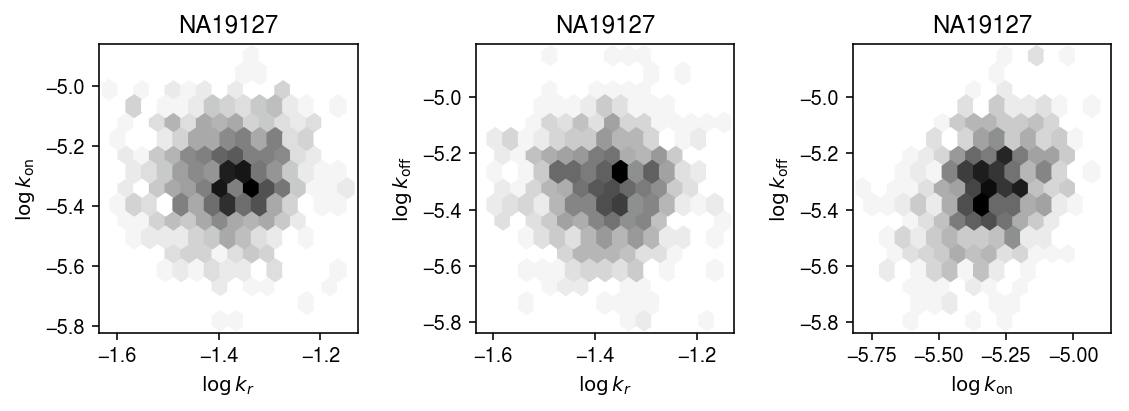
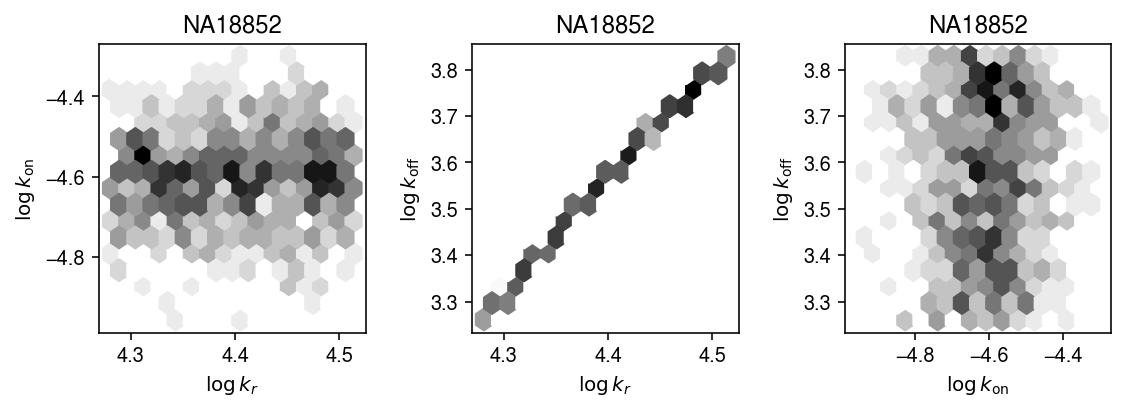
Fit more kinetic models

diff --git a/docs/diff-var.html b/docs/diff-var.html
@@ -1,7 +1,7 @@
 <!DOCTYPE html>
 <html lang="en">
 <head>
-<!-- 2020-02-24 Mon 19:54 -->
+<!-- 2020-02-25 Tue 17:56 -->
 <meta charset="utf-8">
 <meta name="viewport" content="width=device-width, initial-scale=1">
 <title>Differential variance analysis</title>
@@ -339,6 +339,7 @@ expression variance <i>independent</i> of altering mean gene expression.
 <span class="org-keyword">import</span> itertools <span class="org-keyword">as</span> it
 <span class="org-keyword">import</span> numpy <span class="org-keyword">as</span> np
 <span class="org-keyword">import</span> pandas <span class="org-keyword">as</span> pd
+<span class="org-keyword">import</span> pickle
 <span class="org-keyword">import</span> poisbeta
 <span class="org-keyword">import</span> scipy.special <span class="org-keyword">as</span> sp
 <span class="org-keyword">import</span> scipy.stats <span class="org-keyword">as</span> st
@@ -997,6 +998,16 @@ Estimate the posterior distribution of kinetic parameters for each individual.
 </div>
 
 <p>
+Write out the samples.
+</p>
+
+<div class="org-src-container">
+<pre class="src src-ipython"><span class="org-keyword">with</span> <span class="org-builtin">open</span>(<span class="org-string">'/scratch/midway2/aksarkar/ideas/ipsc-gstt1-post.pkl'</span>, <span class="org-string">'wb'</span>) <span class="org-keyword">as</span> f:
+  pickle.dump(k_params, f)
+</pre>
+</div>
+
+<p>
 Plot the 95% credible intervals for each parameter in each individual,
 against genotype.
 </p>
@@ -1040,12 +1051,12 @@ plt.clf()
 <span class="org-variable-name">fig</span>, <span class="org-variable-name">ax</span> = plt.subplots(1, 3)
 fig.set_size_inches(8, 3)
 <span class="org-keyword">for</span> (s, t), a <span class="org-keyword">in</span> <span class="org-builtin">zip</span>(it.combinations(<span class="org-builtin">range</span>(3), 2), ax):
-  <span class="org-variable-name">x</span> = np.array([np.log(k_params[<span class="org-string">'NA19127'</span>][-800:,s]) <span class="org-keyword">for</span> i <span class="org-keyword">in</span> geno.index])
-  <span class="org-variable-name">y</span> = np.array([np.log(k_params[<span class="org-string">'NA19127'</span>][-800:,t]) <span class="org-keyword">for</span> i <span class="org-keyword">in</span> geno.index])
+  <span class="org-variable-name">x</span> = np.array([np.log(k_params[<span class="org-string">'NA18852'</span>][-800:,s]) <span class="org-keyword">for</span> i <span class="org-keyword">in</span> geno.index])
+  <span class="org-variable-name">y</span> = np.array([np.log(k_params[<span class="org-string">'NA18852'</span>][-800:,t]) <span class="org-keyword">for</span> i <span class="org-keyword">in</span> geno.index])
   a.hexbin(x=x, y=y, gridsize=15, cmap=colorcet.cm[<span class="org-string">'gray_r'</span>])
   a.set_xlabel(names[s])
   a.set_ylabel(names[t])
-  a.set_title(<span class="org-string">'NA19127'</span>)
+  a.set_title(<span class="org-string">'NA18852'</span>)
 fig.tight_layout()
 </pre>
 </div>
@@ -1055,13 +1066,109 @@ fig.tight_layout()
 <p><img src="figure/diff-var.org/ipsc-gstt1-joint.png" alt="ipsc-gstt1-joint.png">
 </p>
 </div>
+
+<p>
+Repeat the analysis for the rest of the vQTLs.
+</p>
+
+<div class="org-src-container">
+<pre class="src src-ipython"><span class="org-variable-name">k</span> = <span class="org-string">'ENSG00000113558'</span>
+<span class="org-keyword">with</span> sqlite3.connect(<span class="org-string">'/project2/mstephens/aksarkar/projects/singlecell-qtl/browser/browser.db'</span>) <span class="org-keyword">as</span> conn:
+  <span class="org-variable-name">geno</span> = pd.read_sql(<span class="org-string">'select * from mean_qtl_geno where gene = ?'</span>, con=conn, params=(k,)).set_index(<span class="org-string">'ind'</span>)[<span class="org-string">'value'</span>]
+<span class="org-variable-name">query</span> = x.X.tocsc()[:,<span class="org-builtin">list</span>(x.var.index).index(k)].A.ravel()
+<span class="org-variable-name">k_params</span> = <span class="org-builtin">dict</span>()
+<span class="org-keyword">for</span> i <span class="org-keyword">in</span> geno.index:
+  <span class="org-keyword">print</span>(f<span class="org-string">'Fitting individual {i}'</span>)
+  <span class="org-variable-name">keep</span> = (x.obs[<span class="org-string">'chip_id'</span>] == i).values.ravel()
+  <span class="org-variable-name">xg</span> = query[keep]
+  <span class="org-variable-name">sg</span> = x.obs[<span class="org-string">'mol_hs'</span>].values[keep]
+  <span class="org-variable-name">samples</span>, <span class="org-variable-name">_</span> = poisbeta.fit_poisson_beta_mcmc(xg, n_samples=1000, ar=1, br=xg.<span class="org-builtin">max</span>(), aon=1, bon=100, aoff=1, boff=100)
+  <span class="org-variable-name">k_params</span>[i] = samples
+</pre>
+</div>
+
+<div class="org-src-container">
+<pre class="src src-ipython">plt.clf()
+<span class="org-variable-name">fig</span>, <span class="org-variable-name">ax</span> = plt.subplots(1, 3)
+fig.set_size_inches(8, 3)
+<span class="org-variable-name">n</span> = geno.shape[0]
+<span class="org-keyword">for</span> j, (a, t) <span class="org-keyword">in</span> <span class="org-builtin">enumerate</span>(<span class="org-builtin">zip</span>(ax, [<span class="org-string">'$\log\,k_r$'</span>, <span class="org-string">'$\log\,k_{\mathrm{on}}$'</span>, <span class="org-string">'$\log\,k_{\mathrm{off}}$'</span>])):
+  <span class="org-variable-name">y</span> = np.array([np.log(k_params[i][-800:,j]).mean() <span class="org-keyword">for</span> i <span class="org-keyword">in</span> geno.index])
+  <span class="org-variable-name">ci</span> = np.array([np.percentile(np.log(k_params[i][-800:,j]), [2.5, 97.5]) <span class="org-keyword">for</span> i <span class="org-keyword">in</span> geno.index]).T
+  ax[j].errorbar(x=geno.values + np.random.normal(scale=0.1, size=n),
+                 y=y,
+                 yerr=<span class="org-builtin">abs</span>(ci - y),
+                 fmt=<span class="org-string">'.'</span>,
+                 c=<span class="org-string">'k'</span>,
+                 ecolor=<span class="org-string">'0.7'</span>,
+                 elinewidth=1,
+                 ms=4,
+  )
+  ax[j].set_title(x.var.loc[<span class="org-string">'ENSG00000113558'</span>, <span class="org-string">'name'</span>])
+  ax[j].set_xlabel(<span class="org-string">'Imputed dosage'</span>)
+  ax[j].set_ylabel(t)
+  fig.tight_layout()
+</pre>
+</div>
+
+
+<div class="figure">
+<p><img src="figure/diff-var.org/ipsc-skp1.png" alt="ipsc-skp1.png">
+</p>
+</div>
+
+<div class="org-src-container">
+<pre class="src src-ipython"><span class="org-variable-name">k</span> = <span class="org-string">'ENSG00000132507'</span>
+<span class="org-keyword">with</span> sqlite3.connect(<span class="org-string">'/project2/mstephens/aksarkar/projects/singlecell-qtl/browser/browser.db'</span>) <span class="org-keyword">as</span> conn:
+  <span class="org-variable-name">geno</span> = pd.read_sql(<span class="org-string">'select * from mean_qtl_geno where gene = ?'</span>, con=conn, params=(k,)).set_index(<span class="org-string">'ind'</span>)[<span class="org-string">'value'</span>]
+<span class="org-variable-name">query</span> = x.X.tocsc()[:,<span class="org-builtin">list</span>(x.var.index).index(k)].A.ravel()
+<span class="org-variable-name">k_params</span> = <span class="org-builtin">dict</span>()
+<span class="org-keyword">for</span> i <span class="org-keyword">in</span> geno.index:
+  <span class="org-keyword">print</span>(f<span class="org-string">'Fitting individual {i}'</span>)
+  <span class="org-variable-name">keep</span> = (x.obs[<span class="org-string">'chip_id'</span>] == i).values.ravel()
+  <span class="org-variable-name">xg</span> = query[keep]
+  <span class="org-variable-name">sg</span> = x.obs[<span class="org-string">'mol_hs'</span>].values[keep]
+  <span class="org-variable-name">samples</span>, <span class="org-variable-name">_</span> = poisbeta.fit_poisson_beta_mcmc(xg, n_samples=1000, ar=1, br=xg.<span class="org-builtin">max</span>(), aon=1, bon=100, aoff=1, boff=100)
+  <span class="org-variable-name">k_params</span>[i] = samples
+</pre>
+</div>
+
+<div class="org-src-container">
+<pre class="src src-ipython">plt.clf()
+<span class="org-variable-name">fig</span>, <span class="org-variable-name">ax</span> = plt.subplots(1, 3)
+fig.set_size_inches(8, 3)
+<span class="org-variable-name">n</span> = geno.shape[0]
+<span class="org-keyword">for</span> j, (a, t) <span class="org-keyword">in</span> <span class="org-builtin">enumerate</span>(<span class="org-builtin">zip</span>(ax, [<span class="org-string">'$\log\,k_r$'</span>, <span class="org-string">'$\log\,k_{\mathrm{on}}$'</span>, <span class="org-string">'$\log\,k_{\mathrm{off}}$'</span>])):
+  <span class="org-variable-name">y</span> = np.array([np.log(k_params[i][-800:,j]).mean() <span class="org-keyword">for</span> i <span class="org-keyword">in</span> geno.index])
+  <span class="org-variable-name">ci</span> = np.array([np.percentile(np.log(k_params[i][-800:,j]), [2.5, 97.5]) <span class="org-keyword">for</span> i <span class="org-keyword">in</span> geno.index]).T
+  ax[j].errorbar(x=geno.values + np.random.normal(scale=0.1, size=n),
+                 y=y,
+                 yerr=<span class="org-builtin">abs</span>(ci - y),
+                 fmt=<span class="org-string">'.'</span>,
+                 c=<span class="org-string">'k'</span>,
+                 ecolor=<span class="org-string">'0.7'</span>,
+                 elinewidth=1,
+                 ms=4,
+  )
+  ax[j].set_title(x.var.loc[k, <span class="org-string">'name'</span>])
+  ax[j].set_xlabel(<span class="org-string">'Imputed dosage'</span>)
+  ax[j].set_ylabel(t)
+  fig.tight_layout()
+</pre>
+</div>
+
+
+<div class="figure">
+<p><img src="figure/diff-var.org/ipsc-ENSG00000132507.png" alt="ipsc-ENSG00000132507.png">
+</p>
+</div>
 </div>
 </div>
 </div>
 </div>
 <div id="postamble" class="status">
 <p class="author">Author: Abhishek Sarkar</p>
-<p class="date">Created: 2020-02-24 Mon 19:54</p>
+<p class="date">Created: 2020-02-25 Tue 17:56</p>
 <p class="validation"><a href="http://validator.w3.org/check?uri=referer">Validate</a></p>
 </div>
 </body>
